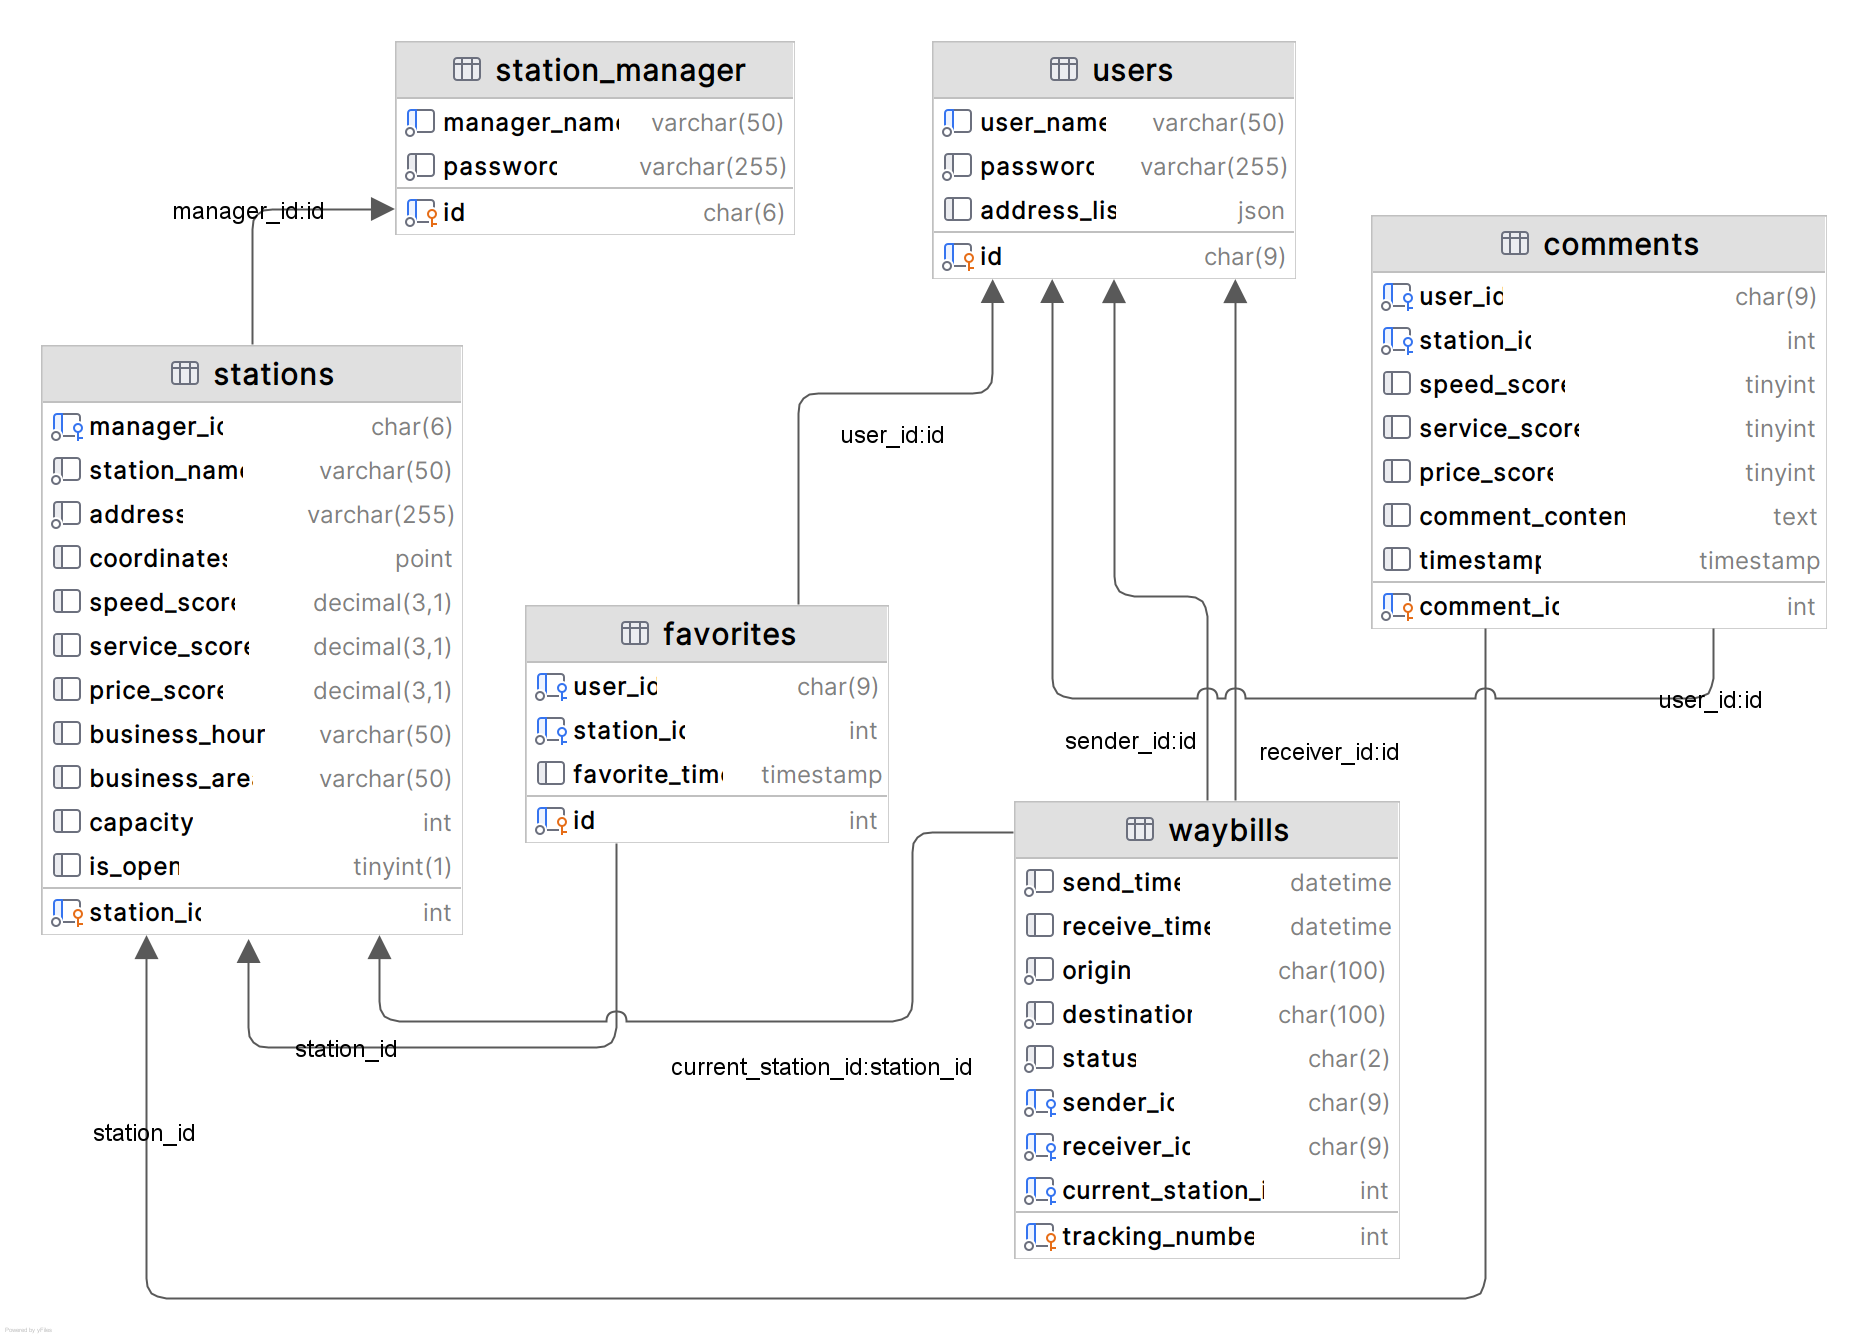
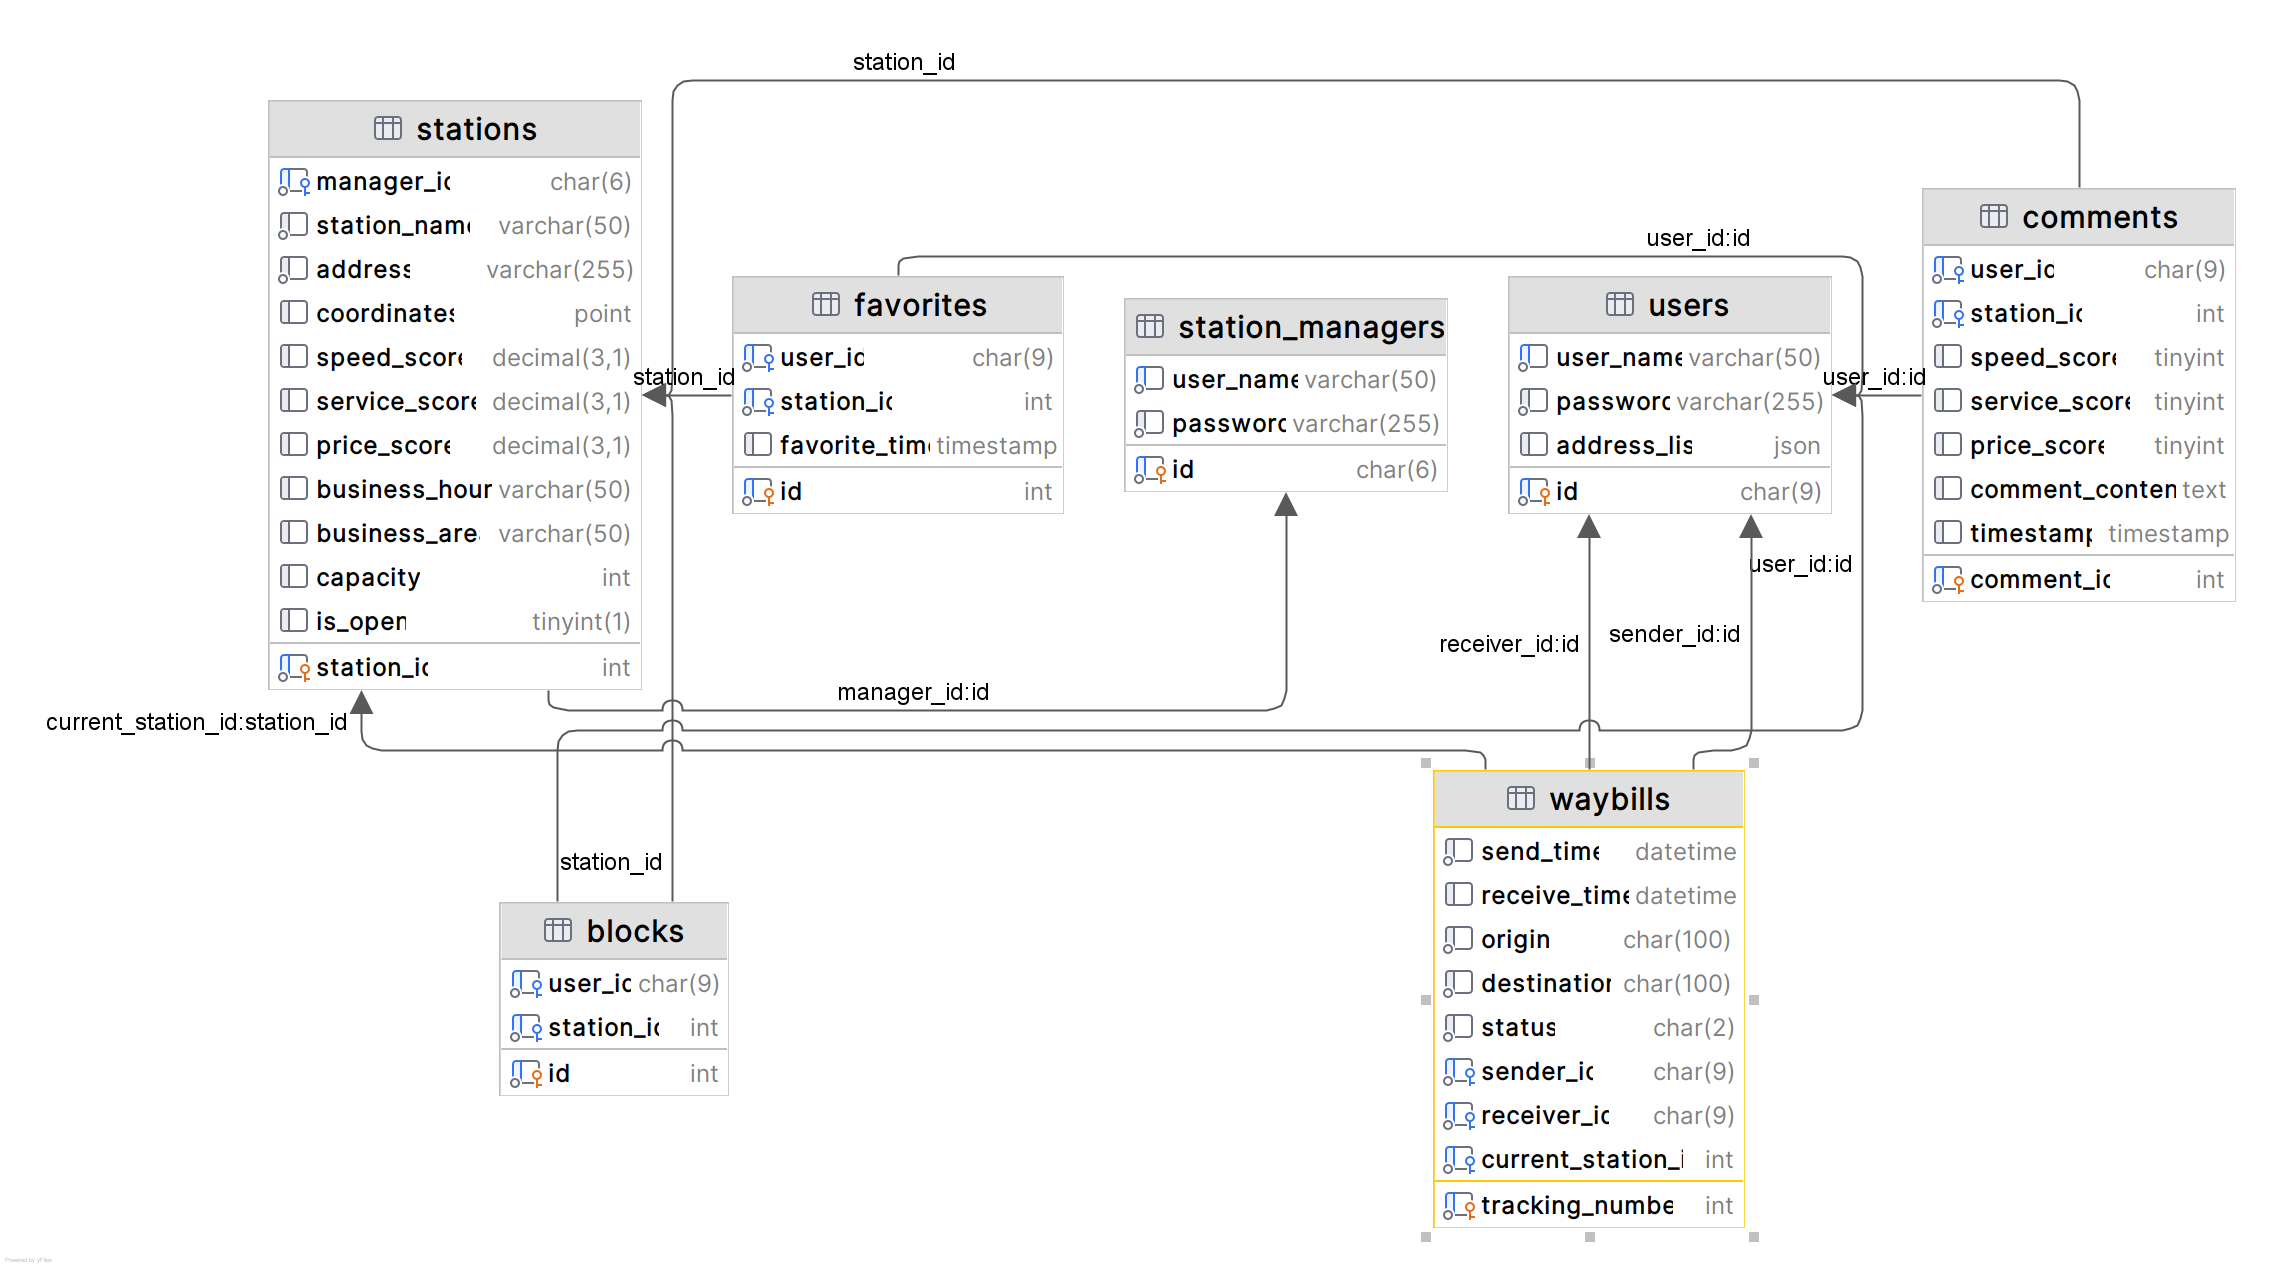
完善文档

diff --git a/doc/Interface.md b/doc/Interface.md
@@ -63,6 +63,33 @@
 - 返回参数：
   - `message`：删除结果消息
 
+## 收藏 `/block`
+
+### ✅ 查看我的屏蔽
+- 接口地址：`http://localhost:3000/block/query`
+- 请求方法：POST
+- 请求参数：
+  - `userId`：用户 ID
+- 返回参数：屏蔽的驿站信息列表
+
+### ✅ 添加屏蔽
+- 接口地址：`http://localhost:3000/block/add`
+- 请求方法：POST
+- 请求参数：
+  - `userId`：用户 ID
+  - `stationId`：驿站 ID
+- 返回参数：
+  - `message`：添加屏蔽结果
+
+### ✅ 移除屏蔽
+- 接口地址：`http://localhost:3000/block/remove`
+- 请求方法：POST
+- 请求参数：
+  - `userId`：用户 ID
+  - `stationId`：驿站 ID
+- 返回参数：
+  - `message`：移除结果
+
 ## 收藏 `/favorite`
 
 ### ✅ 查看我的收藏
@@ -135,6 +162,7 @@
 - 请求参数：
   - longitude：用户位置经度
   - latitude： 用户位置纬度
+  - userId: 用户 ID, 用于处理屏蔽驿站
 - 返回参数：
   - `stations`：{ 驿站信息列表 + distance(米) } (距离升序，限制五条)
 
@@ -145,6 +173,7 @@
   - `name`：搜索框内容
   - longitude：用户位置经度
   - latitude： 用户位置纬度
+  - userId: 用户 ID
 - 返回参数：
   - `stations`：{ 驿站信息列表 + distance(米) } (距离升序，限制五条)
 

diff --git a/doc/Database.md b/doc/Database.md
@@ -58,6 +58,14 @@
 | station_id | int | NO | MUL | NULL |  |
 | favorite_time | timestamp | YES |  | CURRENT_TIMESTAMP | DEFAULT_GENERATED |
 
+### Table: blocks
+
+| Field | Type | Null | Key | Default | Extra |
+| --- | --- | --- | --- | --- | --- |
+| id | int | NO | PRI | NULL | auto_increment |
+| user_id | char(9) | NO | MUL | NULL |  |
+| station_id | int | NO | MUL | NULL |  |
+
 ### Table: waybills 运单
 
 | Field | Type | Null | Key | Default | Extra |

diff --git a/readme.md b/readme.md
@@ -10,12 +10,14 @@
  ┃ ┣ 📜README.md
  ┃ ┗ 📜test.sql
  ┣ 📂doc
+ ┃ ┣ 📂img
  ┃ ┣ 📜Database.md
  ┃ ┣ 📜Interface_test.ipynb
  ┃ ┗ 📜Interface.md
  ┣ 📂node_modules
  ┣ 📂routes
  ┃ ┣ 📜auth.js
+ ┃ ┣ 📜block.js
  ┃ ┣ 📜comment.js
  ┃ ┣ 📜favorite.js
  ┃ ┣ 📜manager.js
